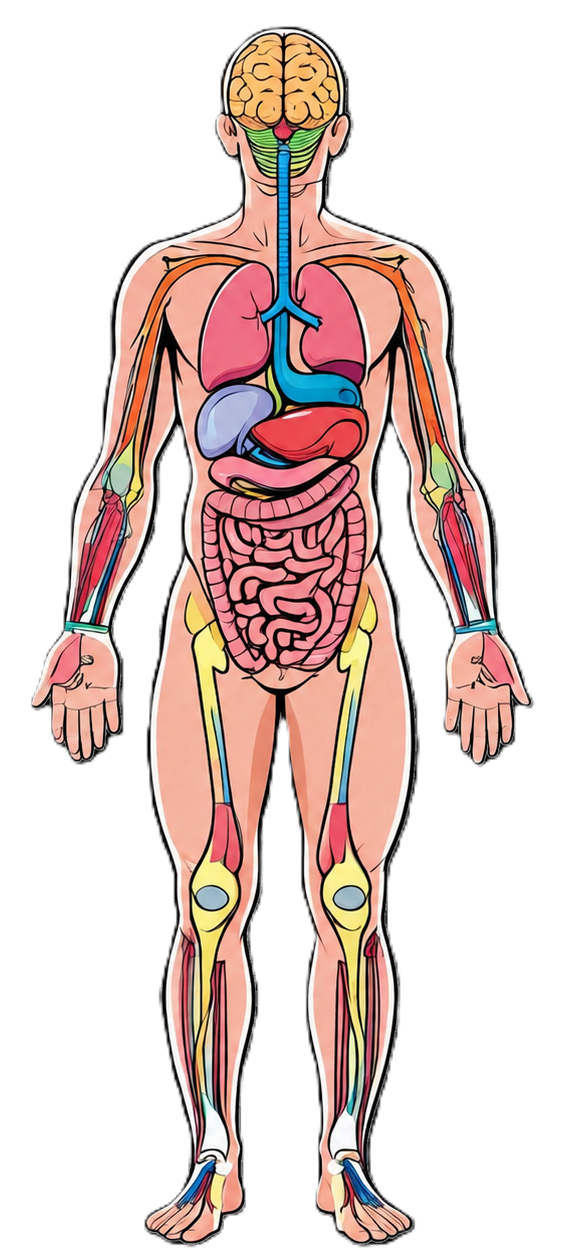
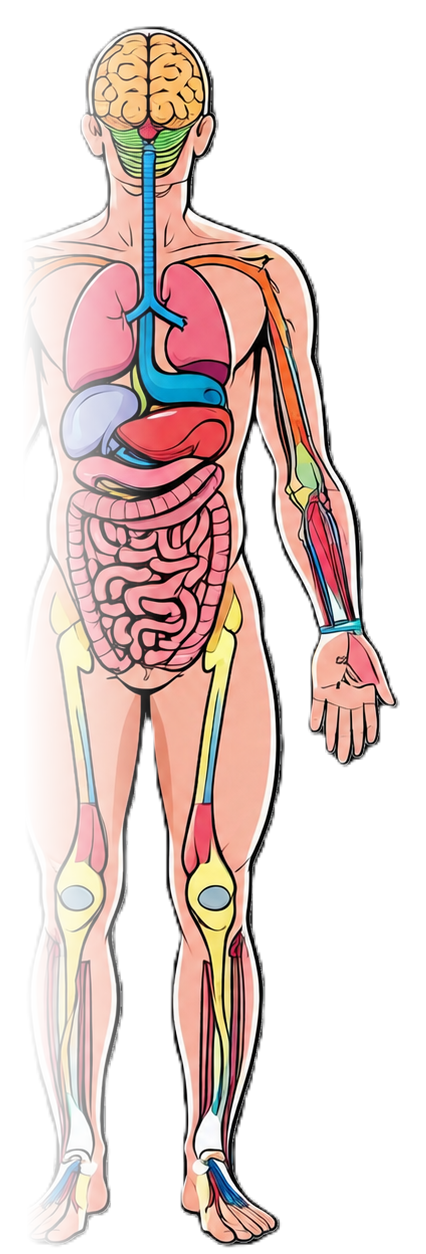
Adjust patient info section to be collapsable accordion, reduce human body image width to save space.

diff --git a/webpage/form.html b/webpage/form.html
@@ -83,15 +83,16 @@
             display: flex;
             justify-content: space-between; /* Space out columns to edges */
             align-items: stretch; /* Make all columns equal height dynamically */
-            margin-top: 15px;
+            margin: 15px auto 0 auto;
             gap: 10px;
             width: 100%;
+            max-width: 500px; /* Centered and returned to original spacing scale */
             position: relative;
             padding: 0 5px; /* Small margin paced near edges */
             box-sizing: border-box;
         }
         .body-column {
-            flex: 0 0 180px; /* Fixed width for the human body image container */
+            flex: 0 0 140px; /* Returned to original width to restore height and alignment */
             position: relative;
         }
         .popover-column {
@@ -108,7 +109,7 @@
             transition: left 0.4s cubic-bezier(0.25, 1, 0.5, 1);
         }
         .buttons-column {
-            flex: 0 0 100px; /* Spaced side buttons */
+            flex: 0 0 75px; /* Increased width by 50% */
             position: relative;
         }
         
@@ -135,13 +136,13 @@
             position: absolute !important;
             width: 100% !important; /* stretch to fill buttons-column width */
             height: auto !important;
-            padding: 8px 12px;
-            border-radius: 20px;
+            padding: 7px 9px; /* Increased vertical/horizontal padding by 50% */
+            border-radius: 21px; /* Increased border radius by 50% */
             background-color: rgba(6, 199, 85, 0.1);
             color: #05883b;
             font-weight: bold;
-            font-size: 15px;
-            border: 2px solid #06C755;
+            font-size: 16px; /* Increased font size by ~50% */
+            border: 2px solid #06C755; /* Increased border width */
             display: flex;
             align-items: center;
             justify-content: center;
@@ -530,36 +531,36 @@
             background-color: #f5f6f7;
             border-left: 4px solid #06C755;
             border-radius: 6px;
-            padding: 12px 16px;
-            margin-bottom: 12px;
+            padding: 6px 16px; /* Reduced vertical padding by 50% */
+            margin-bottom: 10px;
             box-sizing: border-box;
         }
         .meta-label {
             font-weight: bold;
             color: #666;
             margin-right: 8px;
-            font-size: 14px;
+            font-size: 13px;
         }
         .meta-value {
             color: #333;
             font-weight: 600;
-            font-size: 15px;
+            font-size: 13px;
         }
 
         /* Floating label form control group */
         .floating-group {
             position: relative;
-            margin-bottom: 18px;
+            margin-bottom: 12px;
             width: 100%;
         }
         .floating-group input,
         .floating-group select {
             width: 100%;
-            height: 52px;
-            padding: 20px 12px 6px 12px;
+            height: 40px; /* Reduced height by 30% */
+            padding: 10px 10px 2px 10px; /* Reduced vertical padding by 50% */
             border: 1px solid #ccc;
             border-radius: 6px;
-            font-size: 16px;
+            font-size: 14px;
             outline: none;
             background: #fff;
             box-sizing: border-box;
@@ -572,24 +573,39 @@
         }
         .floating-group label {
             position: absolute;
-            left: 12px;
+            left: 10px;
             top: 50%;
             transform: translateY(-50%);
             color: #999;
-            font-size: 16px;
+            font-size: 14px;
             pointer-events: none;
             transition: 0.2s ease all;
-            background-color: transparent;
+            background-color: #fff;
         }
         /* Float the label when input is focused, placeholder is not shown, or select is valid */
         .floating-group input:focus ~ label,
         .floating-group input:not(:placeholder-shown) ~ label,
         .floating-group select:focus ~ label,
         .floating-group select:valid ~ label {
-            top: 14px;
-            font-size: 11px;
+            top: 0px;
+            font-size: 10px;
             color: #06C755;
             font-weight: bold;
+        }
+
+        /* Collapsible accordion content styles to prevent any seams when collapsed */
+        .accordion-content {
+            max-height: 500px;
+            overflow: hidden;
+            transition: max-height 0.3s ease-out, margin-top 0.3s ease-out, padding 0.3s ease-out;
+            margin-top: 10px;
+            padding: 2px;
+        }
+        .accordion-content.collapsed {
+            max-height: 0 !important;
+            margin-top: 0 !important;
+            padding-top: 0 !important;
+            padding-bottom: 0 !important;
         }
     </style>
 </head>
@@ -617,40 +633,55 @@
 {% else %}
 <div class="container">
     <h2>病患衛教表單</h2>
-    <div style="height: 2px; background: linear-gradient(to right, #06C755, #bce3c9); margin-top: 10px; margin-bottom: 25px; border-radius: 2px;"></div>
+    <div style="height: 2px; background-color: #333; margin-top: 10px; margin-bottom: 25px; border-radius: 2px;"></div>
 
     <!-- Hidden fields to preserve JS compatibility -->
     <input type="hidden" id="line_info" value="{{ uname }} ({{ uid }})" data-uname="{{ uname }}" data-uid="{{ uid }}" data-topics='{{ prefill_topics | default([]) | tojson }}'>
     <input type="hidden" id="discharge_date">
 
-    <!-- Solid meta-boxes for display of immutable fields -->
-    <div class="meta-box">
-        <span class="meta-label">LINE 帳號：</span>
-        <span class="meta-value">{{ uname }} ({{ uid }})</span>
-    </div>
-    <div class="meta-box" style="margin-bottom: 20px;">
-        <span class="meta-label">出院日期：</span>
-        <span id="display_discharge_date" class="meta-value"></span>
+    <!-- Collapsible accordion containing patient info meta-box and text fields -->
+    <div class="accordion-container" style="margin-bottom: 20px;">
+        <div class="accordion-header" id="accordion-toggle" style="display: flex; align-items: center; cursor: pointer; user-select: none; font-weight: bold; color: #333; font-size: 15px; padding: 5px 0;">
+            <span id="accordion-icon" style="margin-right: 6px; font-family: monospace; color: #333;">▼</span>
+            <span>病患基本資料：</span>
+        </div>
+        <div class="accordion-content" id="accordion-content">
+            <!-- Combined Solid meta-box for LINE Name and Date -->
+            <div class="meta-box" style="flex-direction: column; align-items: stretch; margin-bottom: 20px;">
+                <div style="display: flex; justify-content: space-between; align-items: center; width: 100%;">
+                    <span class="meta-label">LINE 帳號：</span>
+                    <span class="meta-value">{{ uname }} ({{ uid }})</span>
+                </div>
+                <div style="height: 1px; background-color: #e2e8f0; margin: 6px 0;"></div>
+                <div style="display: flex; justify-content: space-between; align-items: center; width: 100%;">
+                    <span class="meta-label">出院日期：</span>
+                    <span id="display_discharge_date" class="meta-value"></span>
+                </div>
+            </div>
+
+            <!-- User inputs with floating labels -->
+            <div class="floating-group">
+                <input type="text" id="medical_record_num" placeholder=" " required value="{{ prefill_record_num | default('') }}">
+                <label for="medical_record_num">病歷號</label>
+            </div>
+
+            <div class="floating-group" style="margin-bottom: 5px;">
+                <select id="doctor_id" required>
+                    <option value="" disabled {% if not prefill_doctor_id %}selected{% endif %} hidden></option>
+                    {% for doc in doctors %}
+                        <option value="{{ doc.account_name }}" {% if doc.account_name == prefill_doctor_id %}selected{% endif %}>{{ doc.doctor_name }}</option>
+                    {% endfor %}
+                </select>
+                <label for="doctor_id">醫師帳號</label>
+            </div>
+        </div>
     </div>
 
-    <!-- User inputs with floating labels, each on separate lines -->
-    <div class="floating-group">
-        <input type="text" id="medical_record_num" placeholder=" " required value="{{ prefill_record_num | default('') }}">
-        <label for="medical_record_num">病歷號</label>
-    </div>
-
-    <div class="floating-group">
-        <select id="doctor_id" required>
-            <option value="" disabled {% if not prefill_doctor_id %}selected{% endif %} hidden></option>
-            {% for doc in doctors %}
-                <option value="{{ doc.account_name }}" {% if doc.account_name == prefill_doctor_id %}selected{% endif %}>{{ doc.doctor_name }}</option>
-            {% endfor %}
-        </select>
-        <label for="doctor_id">醫師帳號</label>
-    </div>
+    <!-- Divider between patient info and image section -->
+    <div style="height: 1px; background-color: #333; margin: 20px 0; opacity: 0.15;"></div>
 
     
-    <div class="image-section">
+    <div class="image-section" style="margin-bottom: 5px;">
         <label style="font-weight: bold; color: #555; display: block; text-align: left; margin-bottom:10px;">請點擊圖示部位選擇衛教資料：</label>
         
         <div class="confirmation-section" style="display: none; margin-bottom: 20px;">
@@ -665,12 +696,12 @@
                 <div class="body-column">
                     <div class="image-container" id="body-image-container">
                         <img src="/assets/images/human_structrue_organs_chatgpt.png" alt="人體構造圖">
-                        <div class="hotspot" data-region="頭" data-position="body" style="top: 2%; left: 36.19%; width: 29.06%; height: 11%;" title="頭"></div>
-                        <div class="hotspot" data-region="脖子" data-position="body" style="top: 13.5%; left: 41.44%; width: 17.88%; height: 6%;" title="脖子"></div>
-                        <div class="hotspot" data-region="手" data-position="body" style="top: 24%; left: 72.62%; width: 24.59%; height: 32%;" title="手"></div>
-                        <div class="hotspot" data-region="軀幹上半部" data-position="body" style="top: 20%; left: 28.03%; width: 44.71%; height: 17%;" title="軀幹上半部 (肺臟、心臟)"></div>
-                        <div class="hotspot" data-region="軀幹下半部" data-position="body" style="top: 38%; left: 25.68%; width: 49.18%; height: 19%;" title="軀幹下半部 (腸胃、器官)"></div>
-                        <div class="hotspot" data-region="腳" data-position="body" style="top: 59%; left: 48.03%; width: 29.06%; height: 39%;" title="腳"></div>
+                        <div class="hotspot" data-region="頭" data-position="body" style="top: 2%; left: 15.97%; width: 38.27%; height: 11%;" title="頭"></div>
+                        <div class="hotspot" data-region="脖子" data-position="body" style="top: 13.5%; left: 22.88%; width: 23.55%; height: 6%;" title="脖子"></div>
+                        <div class="hotspot" data-region="手" data-position="body" style="top: 24%; left: 63.94%; width: 32.38%; height: 32%;" title="手"></div>
+                        <div class="hotspot" data-region="軀幹上半部" data-position="body" style="top: 20%; left: 5.22%; width: 58.88%; height: 17%;" title="軀幹上半部 (肺臟、心臟)"></div>
+                        <div class="hotspot" data-region="軀幹下半部" data-position="body" style="top: 38%; left: 2.13%; width: 64.77%; height: 19%;" title="軀幹下半部 (腸胃、器官)"></div>
+                        <div class="hotspot" data-region="腳" data-position="body" style="top: 59%; left: 31.56%; width: 38.27%; height: 39%;" title="腳"></div>
                     </div>
                 </div>
 
@@ -845,6 +876,32 @@
         displayDateEl.textContent = todayStr;
     }
 
+    // Accordion Toggle Implementation
+    const accordionToggle = document.getElementById('accordion-toggle');
+    const accordionContent = document.getElementById('accordion-content');
+    const accordionIcon = document.getElementById('accordion-icon');
+    let accordionExpanded = true;
+
+    function toggleAccordion(expand) {
+        if (expand !== undefined) {
+            accordionExpanded = expand;
+        } else {
+            accordionExpanded = !accordionExpanded;
+        }
+        
+        if (accordionExpanded) {
+            accordionContent.classList.remove('collapsed');
+            accordionIcon.textContent = "▼";
+        } else {
+            accordionContent.classList.add('collapsed');
+            accordionIcon.textContent = "▶";
+        }
+    }
+
+    if (accordionToggle) {
+        accordionToggle.addEventListener('click', () => toggleAccordion());
+    }
+
     const topicMapping = {
         "頭": ["頭暈", "流鼻血", "發燒", "頭痛", "偏頭痛", "噁心嘔吐", "眩暈"],
         "脖子": ["咳嗽", "咳血", "打嗝"],
@@ -892,6 +949,9 @@
     hotspots.forEach(spot => {
         spot.addEventListener('click', function(e) {
             e.stopPropagation();
+
+            // Auto collapse the patient basic info accordion on interaction below
+            toggleAccordion(false);
 
             const region = this.getAttribute('data-region');
 